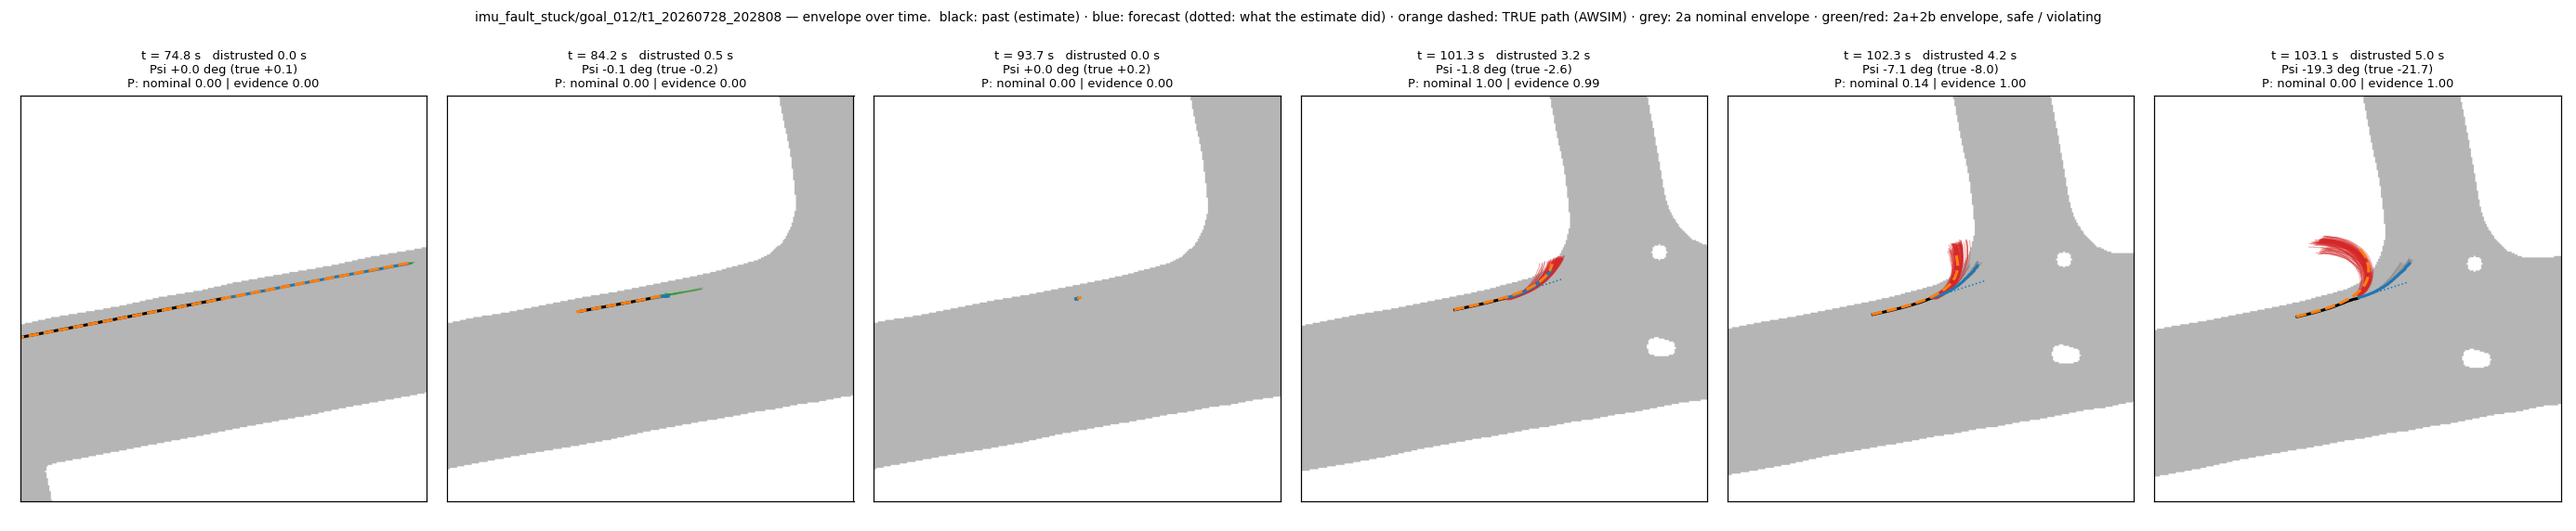
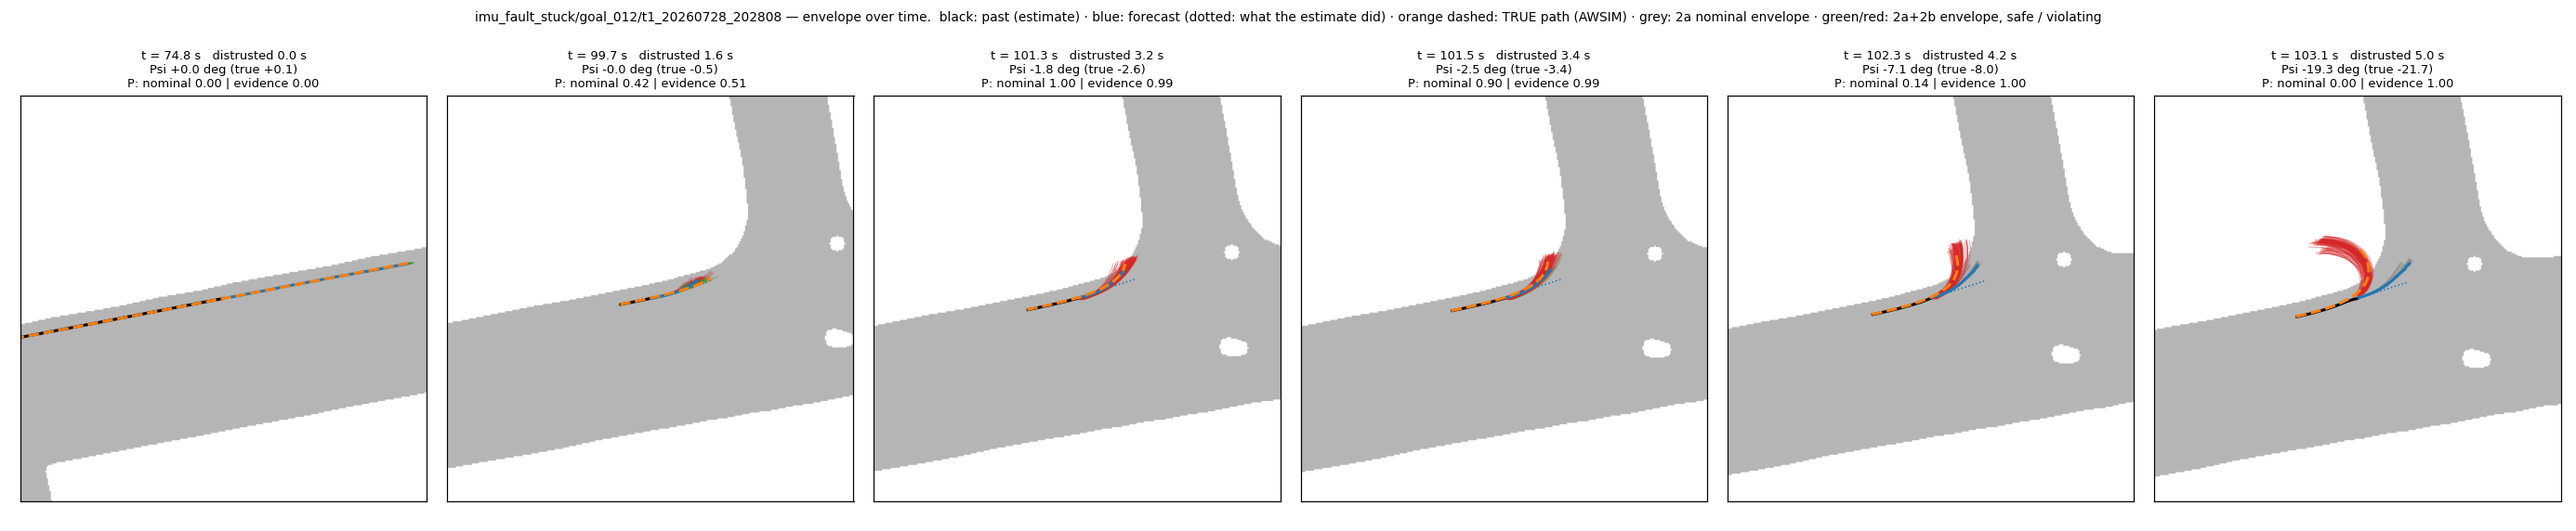
Layer 2: LiDAR-confirmed release of carried pose error; onset calibrated on episodes/hour
Carried pose error is released once LiDAR-map matching is healthy (EKF
gate <= nominal q95, match probability >= nominal q05) for 2 s; onset
threshold = lowest h with <= 6 nominal distrust episodes per hour
(4.2/h achieved, was 47/h). ego_v6, 38 trials: evidence 4/4 departures
at 2.0-3.4 s lead; harmless IMU faults 0-18% of fault time in alarm.

Claude-Session: https://claude.ai/code/session_01D6N5GagNh4DQrHXspw3Qup

diff --git a/docs/architecture_diagram.html b/docs/architecture_diagram.html
@@ -260,6 +260,7 @@ h2 { font-size: 0.8rem; font-family: var(--mono); font-weight: 500; letter-spaci
     <section>
       <h2>Recent changes</h2>
       <ul class="log">
+        <li><time datetime="2026-10-08">2026-10-08</time><span>Onset threshold calibrated to at most 6 distrust episodes per hour of nominal driving (4.2/h achieved, was 47/h); carried pose error released once LiDAR-map matching is healthy for 2 s. Evidence method: 4/4 real departures, 2.0–3.4 s warning; harmless IMU faults in alarm 0–18% of fault time.</span></li>
         <li><time datetime="2026-10-08">2026-10-08</time><span>Alarm logic: every channel becomes a conformal p-value, combined into one bounded score; capped CUSUM with a 2 s recovery test, so alarms end. 2b carries the pose error after distrust ends. Traffic-light channels now feed Layer 1.</span></li>
         <li><time datetime="2026-10-08">2026-10-08</time><span>Pose consistency made planar (ego_v6): lateral and along-track pose-velocity gaps, integrated over a sliding 3 s window; heading from onset. Checked against AWSIM ground truth.</span></li>
         <li><time datetime="2026-10-07">2026-10-07</time><span>Pose-based consistency channel added (ego_v5): it sees the LiDAR scan-match corrections the EKF channel misses, so the envelope no longer over-rotates while localization is still being corrected.</span></li>

diff --git a/experiments/scripts/layer2_envelope.py b/experiments/scripts/layer2_envelope.py
@@ -107,6 +107,15 @@ def recent_consistency(cons_obs, cons_pred, prev_ok):
     return out
 
 
+def window_locq(seqs):
+    """(N,2) localization health at each window's 'now': log1p(EKF gate
+    Mahalanobis), LiDAR-map transform probability / 10 (ego_v4+); None if the
+    schema has no loc_quality."""
+    if 'loc_quality' not in seqs[0]['past'][-1]:
+        return None
+    return np.array([s['past'][-1]['loc_quality'] for s in seqs], dtype=float)
+
+
 def window_speed(seqs):
     lo, hi = cfg.VELOCITY_X_RANGE
     return np.array([s['past'][-1]['velocity'][0] * (hi - lo) + lo for s in seqs])
@@ -258,7 +267,7 @@ def sliding_position_error(t, e_along, e_lat, v, Psi, w=POS_WINDOW_S):
     return X, Y
 
 
-def evidence_state(t, u, flag, e, v, cal):
+def evidence_state(t, u, flag, e, v, cal, lq=None):
     """Layer-1 WHEN + 2b carried pose error over one trial's windows, causal.
     - distrust ON when the capped CUSUM S of the bounded score u exceeds h;
       onset (change-point) = last time S was 0
@@ -269,6 +278,12 @@ def evidence_state(t, u, flag, e, v, cal):
       back inside the nominal drift band (a LiDAR correction shows up in that
       channel with the opposite sign, so the integral comes back by itself)
     - spread = the nominal drift band at time-since-onset (distribution-free)
+    - LiDAR-confirmed release: once distrust has ended, the carried error is
+      also released when the absolute reference confirms the pose -- LiDAR-
+      to-map matching healthy (EKF gate distance <= nominal q95, match
+      probability >= nominal q05) for RECOVERY_W_S. A slow correction can
+      leave a few degrees in the integral that the band test never clears
+      (imu_fault_s1: ~3 deg carried while the true error was ~0).
     The envelope is moved while distrusted or carrying."""
     n = len(t)
     o = {k: np.zeros(n) for k in ('D', 'S', 'N', 'active', 'tau', 'Psi', 'X', 'Y',
@@ -281,6 +296,9 @@ def evidence_state(t, u, flag, e, v, cal):
     S = np.zeros(n)
     distrusted, carrying = False, False
     psi_hist = np.zeros(n)
+    healthy_since = None
+    healthy = (np.ones(n, bool) if lq is None or 'lq_q' not in cal else
+               (lq[:, 0] <= cal['lq_q'][0]) & (lq[:, 1] >= cal['lq_q'][1]))
     last_zero = t[0]
     onset = None
     Psi = X = Y = 0.0
@@ -320,10 +338,12 @@ def evidence_state(t, u, flag, e, v, cal):
         psi_hist[i] = Psi if carrying else 0.0
         if carrying and elat is not None:
             X, Y = _window_xy(t, es, elat, v, psi_hist, i)
+        healthy_since = (healthy_since if healthy_since is not None else t[i]) if healthy[i] else None
         if carrying:
             tau = t[i] - onset + DT
             bP, bY = drift_band(cal['bands'], tau, 'Psi'), drift_band(cal['bands'], tau, 'Y')
-            if not distrusted and abs(Psi) <= bP and abs(Y) <= bY:
+            lidar_ok = lq is not None and healthy_since is not None and t[i] - healthy_since >= RECOVERY_W_S
+            if not distrusted and ((abs(Psi) <= bP and abs(Y) <= bY) or lidar_ok):
                 carrying = False      # back to nominal: release the carried error
                 Psi = X = Y = 0.0
                 continue
@@ -454,11 +474,22 @@ def build_pool(model, device, args):
            'q90': np.nanquantile(np.abs(e), 0.90, axis=0),
            'q99': np.nanquantile(np.abs(e), 0.99, axis=0),
            'kappa': float(np.quantile(u, args.kappa_q))}
-    # h: capped CUSUM above h on args.distrust_rate of nominal windows (the cap
-    # = 2h only acts above h, so it doesn't change that share)
-    S_unc = np.concatenate([capped_cusum(t_all[trial == tid], u[trial == tid], cal['kappa'], np.inf)
-                            for tid in np.unique(trial)])
-    cal['h'] = max(float(np.quantile(S_unc, 1 - args.distrust_rate)), 1e-6)
+    # (h is calibrated on distrust episodes per hour below; the cap = 2h only acts above h)
+    # h: the lowest threshold giving <= args.max_episodes_per_hour distrust
+    # episodes on nominal driving (episodes = runs of S > h merged across the
+    # recovery window) -- an operational rate rather than a share of windows
+    S_by = {tid: capped_cusum(t_all[trial == tid], u[trial == tid], cal['kappa'], np.inf) for tid in np.unique(trial)}
+    hours = len(trial) * DT / 3600
+    S_unc = np.concatenate(list(S_by.values()))
+    cal['h'] = float(np.quantile(S_unc, 0.9999))
+    for q in np.linspace(0.95, 0.9999, 200):
+        h = float(np.quantile(S_unc, q))
+        if h <= 0:
+            continue
+        eps = sum(len(L2._alarm_episodes(t_all[trial == tid], S_by[tid] > h, RECOVERY_W_S)) for tid in S_by)
+        if eps / hours <= args.max_episodes_per_hour:
+            cal['h'] = h
+            break
     cal['cap'] = 2.0 * cal['h']
     Nall = np.concatenate([scan_count(t_all[trial == tid], flag[trial == tid]) for tid in np.unique(trial)])
     cal['n_off'] = float(np.quantile(Nall, 0.95))
@@ -479,6 +510,9 @@ def build_pool(model, device, args):
         bands[k] = np.array([np.quantile(a, 0.95) if len(a) else np.nan for a in acc[k]])
         bands[k] = np.maximum.accumulate(np.nan_to_num(bands[k], nan=np.nanmax(bands[k])))
     cal['bands'] = bands
+    lq_all = window_locq(seqs)
+    if lq_all is not None:
+        cal['lq_q'] = (float(np.quantile(lq_all[:, 0], 0.95)), float(np.quantile(lq_all[:, 1], 0.05)))
     pool['cal'] = cal
     pool['se_rate'] = cal['q90'][list(int_ch[:2])] / 1.645
     pe = np.array([L2.pose_error(s) for s in seqs[::5]])
@@ -486,7 +520,8 @@ def build_pool(model, device, args):
     ev = None
     for tid in np.unique(trial):
         m = np.where(trial == tid)[0]
-        sub = evidence_state(t_all[m], u[m], flag[m], e[m], v_all[m], cal)
+        sub = evidence_state(t_all[m], u[m], flag[m], e[m], v_all[m], cal,
+                             lq_all[m] if lq_all is not None else None)
         if ev is None:
             ev = {k: np.zeros(len(trial)) for k in sub}
         for k in sub:
@@ -496,7 +531,8 @@ def build_pool(model, device, args):
     eps = sum(len(L2._alarm_episodes(t_all[trial == tid], ev['D'][trial == tid] > 0, 1.0)) for tid in np.unique(trial))
     hours = len(trial) * DT / 3600
     print(f"Calibration: {len(trial)} windows ({hours:.2f} h), {len(np.unique(trial))} trials; integrating channels {int_ch}")
-    print(f"  bounded score u: kappa {cal['kappa']:.2f}, h {cal['h']:.2f}, cap {cal['cap']:.2f}, recovery n_off {cal['n_off']:.0f} "
+    print(f"  bounded score u: kappa {cal['kappa']:.2f}, h {cal['h']:.2f} (target <= {args.max_episodes_per_hour}/h), "
+          f"cap {cal['cap']:.2f}, recovery n_off {cal['n_off']:.0f} "
           f"in {RECOVERY_W_S:.0f} s")
     print(f"  nominal (LOO): distrusted {ev['D'].mean():.2%}, envelope active {ev['active'].mean():.2%}, "
           f"distrust episodes {eps} = {eps / hours:.1f} per hour")
@@ -552,7 +588,7 @@ def process_trial(run_dir, model, device, pool, builder, args):
     P = pvalues(Xch, pool['cal']['ref'])
     u, pc = combined_score(P)
     v = window_speed(seqs)
-    ev = evidence_state(t, u, (pc < ALPHA_FLAG).astype(float), e, v, pool['cal'])
+    ev = evidence_state(t, u, (pc < ALPHA_FLAG).astype(float), e, v, pool['cal'], window_locq(seqs))
     ev['u'] = u
     ev['pchan'] = P
     bag = os.path.join(run_dir, 'rosbag')
@@ -835,7 +871,8 @@ def main():
     ap.add_argument('--fault-stride', type=int, default=2)
     ap.add_argument('--kappa-q', type=float, default=0.99,
                     help='CUSUM reference kappa = this nominal quantile of the combined evidence strength')
-    ap.add_argument('--distrust-rate', type=float, default=0.01, help='CUSUM threshold set so this share of nominal windows is distrusted')
+    ap.add_argument('--max-episodes-per-hour', type=float, default=6.0,
+                    help='onset threshold h = lowest value giving at most this many distrust episodes per hour of nominal driving')
     ap.add_argument('--far', type=float, default=0.01)
     ap.add_argument('--alarm-gap-s', type=float, default=1.0)
     ap.add_argument('--trials', nargs='*', default=None)

diff --git a/docs/findings.md b/docs/findings.md
@@ -114,8 +114,8 @@ Benchmark table (held-out CAL, every model):
 - **Open-loop tail.** Normal driving at tight spots gives P ≈ 1 because
   counterfactuals ignore lane-keeping; it sets every 1%-false-alarm threshold
   (~0.82–0.93). Fix planned: lane-keeping prior under trust.
-- **Coupling Layer 1 into the envelope** (4 real IMU departures, 1% nominal
-  false-alarm rate):
+- **Coupling Layer 1 into the envelope** (4 real IMU departures, alarms at a
+  1% nominal false-alarm rate; earlier couplings, ego_v3):
 
 | Coupling | Uses | Departures caught | Lead |
 |---|---|---|---|
@@ -125,6 +125,27 @@ Benchmark table (held-out CAL, every model):
 | Dead-reckoning pose correction (baseline) | redundancy (hand-built) | 4/4 | 1.8–3.0 s |
 | Layer 1 alone (no map) | behavioral | 3/4 | 0.2–3.0 s |
 
+- **The architecture method** (`layer2_envelope.py`, ego_v6, 2026-10-08):
+  per-channel conformal p-values combined into a bounded score; capped
+  CUSUM onset calibrated to <= 6 nominal distrust episodes per hour (4.2/h
+  achieved, 0.3% of driving); 2 s recovery test; heading error integrated
+  from onset with the pose-consistency channel, along/lateral over a sliding
+  3 s window; carried error released once LiDAR-map matching is healthy
+  for 2 s. Results, lead time (alarm start after fault onset):
+
+| Departure | Layer 1 alone | 2a+2b evidence | dead-reckoning |
+|---|---|---|---|
+| s3/goal_007 | 10.0 s (f+28.7) | 2.0 s (f+36.7) | 1.6 s (f+37.1) |
+| scale/goal_007 | 6.2 s (f+3.3) | 2.0 s (f+7.5) | 2.4 s (f+7.1) |
+| stuck/goal_007 | 4.2 s (f+3.2) | 3.0 s (f+4.4) | 3.0 s (f+4.4) |
+| stuck/goal_012 | 3.6 s (f+22.8) | 3.4 s (f+23.0) | 3.4 s (f+23.0) |
+
+  Harmless IMU faults (s1/007, s1/012, s3/012, scale/012), share of fault
+  time in alarm: Layer 1 0.98/0.98/0.99/0.21 (the anomaly is real),
+  evidence 0.18/0.00/0.18/0.00, dead-reckoning 0.05/0.00/0.59/0.00.
+  Heading error tracks AWSIM truth closely (stuck: +115 deg vs +115 true).
+  dP (evidence - nominal) misses scale/goal_007 because P is already high
+  at that tight spot before the fault.
 - No alarms of note on traffic-light trials (in-fault ≤ 0.07). One IMU
   trial without departure alarms 55% of its fault windows — its real
   footprint came within ~5 cm of the edge.
